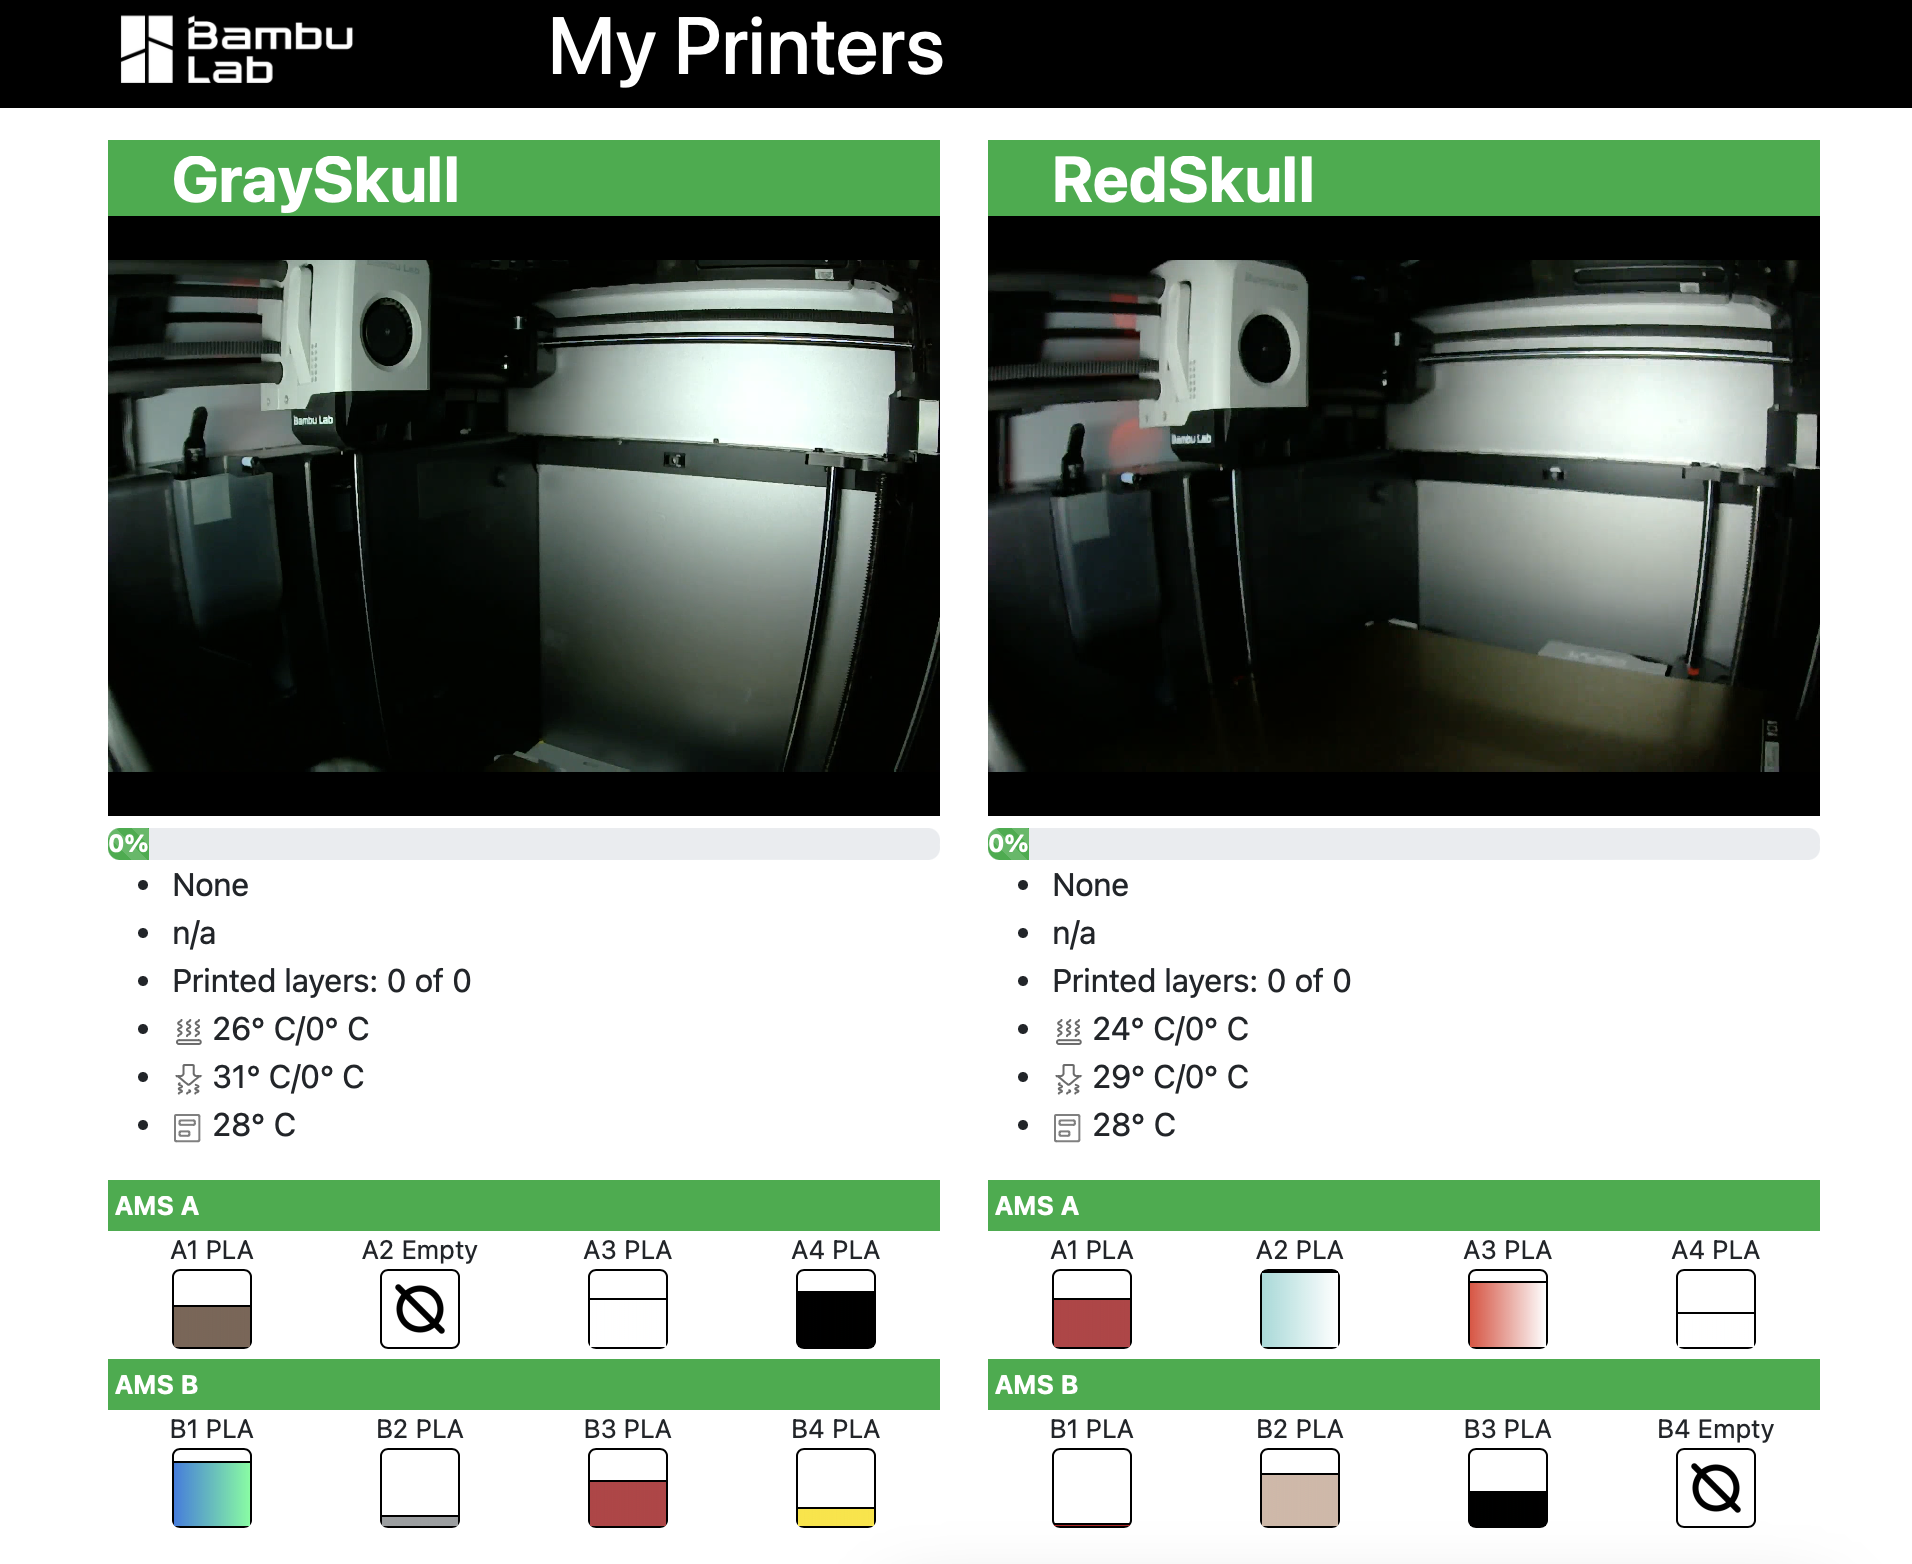
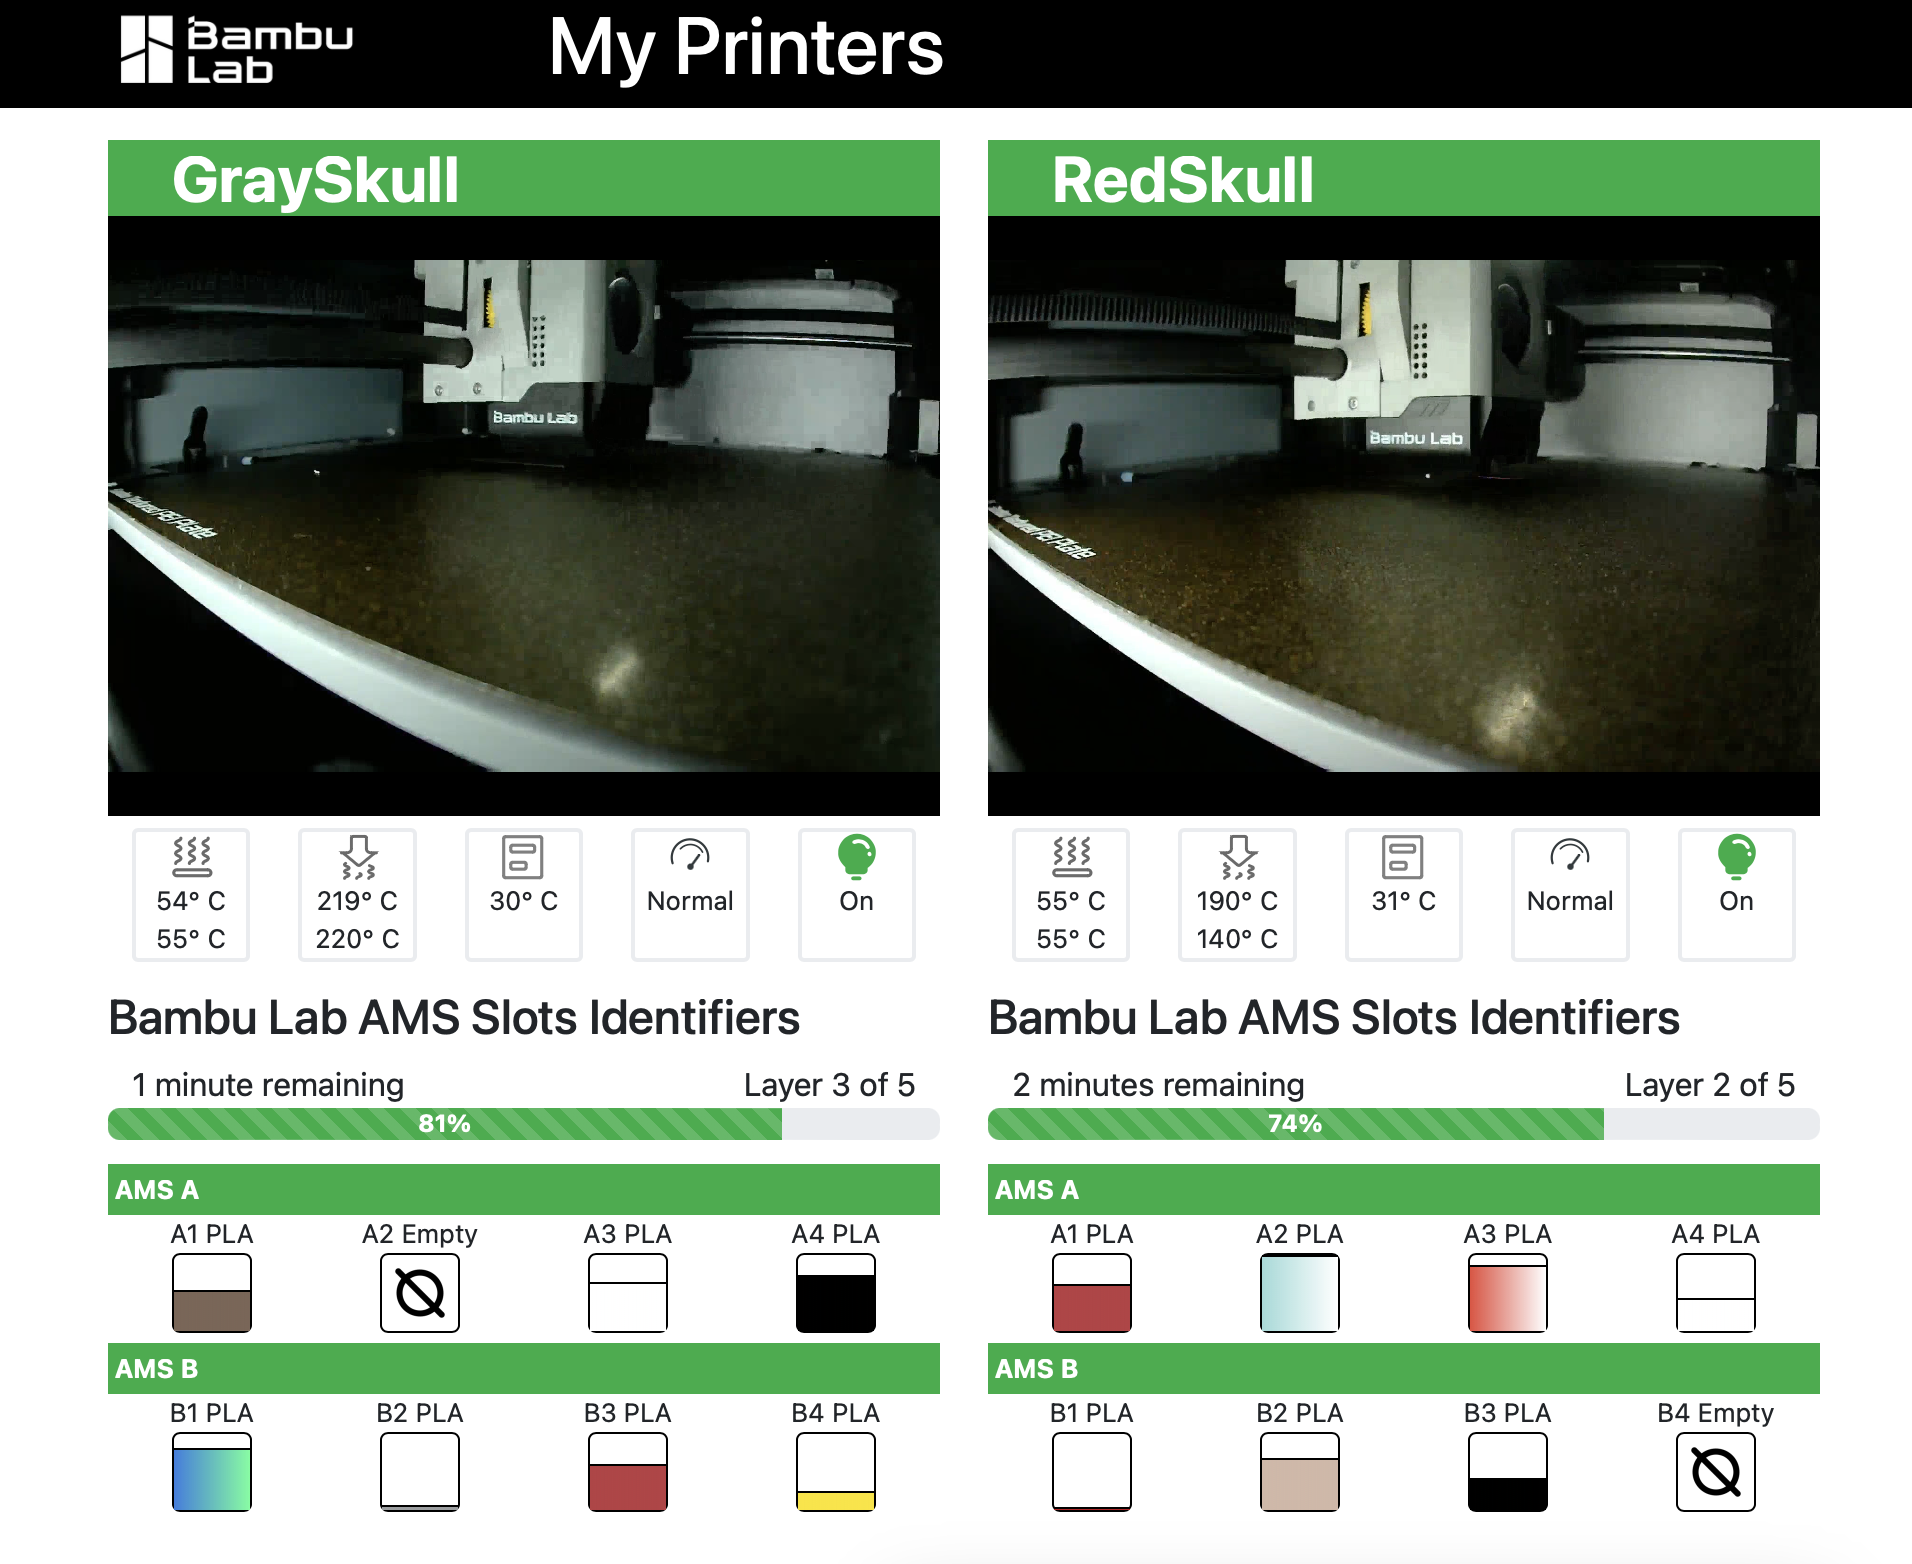
Some styling updates and some more details added

diff --git a/app/public/js/site.js b/app/public/js/site.js
@@ -87,10 +87,11 @@ const handleAMS = (json) => {
 };
 
 const handleMachineInfo = (json) => {
+    console.log(json);
+
     let value;
     const data = json.data;
     const SEL = `.machine_${json.printer.id} .status`;
-    //console.log(json);
     const update = (_sel, value) => {
         let sel = `${SEL} ${_sel}`;
         if (sel && value) {
@@ -140,8 +141,31 @@ const handleMachineInfo = (json) => {
         const key = `${name}_temper`;
         if (data[key]) {
             const sel = `.${name}`;
-            value = data[key];
+            value = data[key].replace(/ /g, '&nbsp;');
             update(sel, value);
         }
     });
+
+    if (data.lights_report) {
+        const sel = `${SEL} .light`;
+        data.lights_report.forEach((i) => {
+            if (i.node === 'chamber_light') {
+                let str = i.mode.toLowerCase();
+                str = `${str.charAt(0).toUpperCase()}${str.slice(1)}`
+                let img = `/img/bambu/monitor_lamp_${i.mode}.svg`;
+                document.querySelector(sel).src = img;
+                update(`.lamp_status`, str);
+            }
+        });
+    }
+    if ('spd_lv' in data) {
+        update(`.speed`, SPEEDS[data.spd_lv]);
+    }
+};
+
+const SPEEDS = {
+    1: 'Silent',
+    2: 'Normal',
+    3: 'Sport',
+    4: 'Ludicrous'
 };

diff --git a/app/public/css/site.css b/app/public/css/site.css
@@ -23,6 +23,10 @@ header img {
     padding-left: 1em;
 }
 
+.machine .progress {
+    margin-bottom: 1em;
+}
+
 .machine .progress-bar {
     background-color: #00AE42;
     font-weight: bold;
@@ -65,8 +69,20 @@ header img {
     background-size: contain;
     background-repeat: no-repeat;
 }
-/*
-.machine .ams .tray {
-    display: inline-block;
+
+.machine .icons {
+    font-size: small;
+    margin-bottom: 1em;
 }
-*/
+
+.machine .icons img {
+    height: 25px;
+    width: 25px;
+}
+
+.machine .icons .wrapper {
+    border: 2px solid #eaecef;
+    border-radius: 3px;
+    width: 100%;
+    height: 100%;
+}
